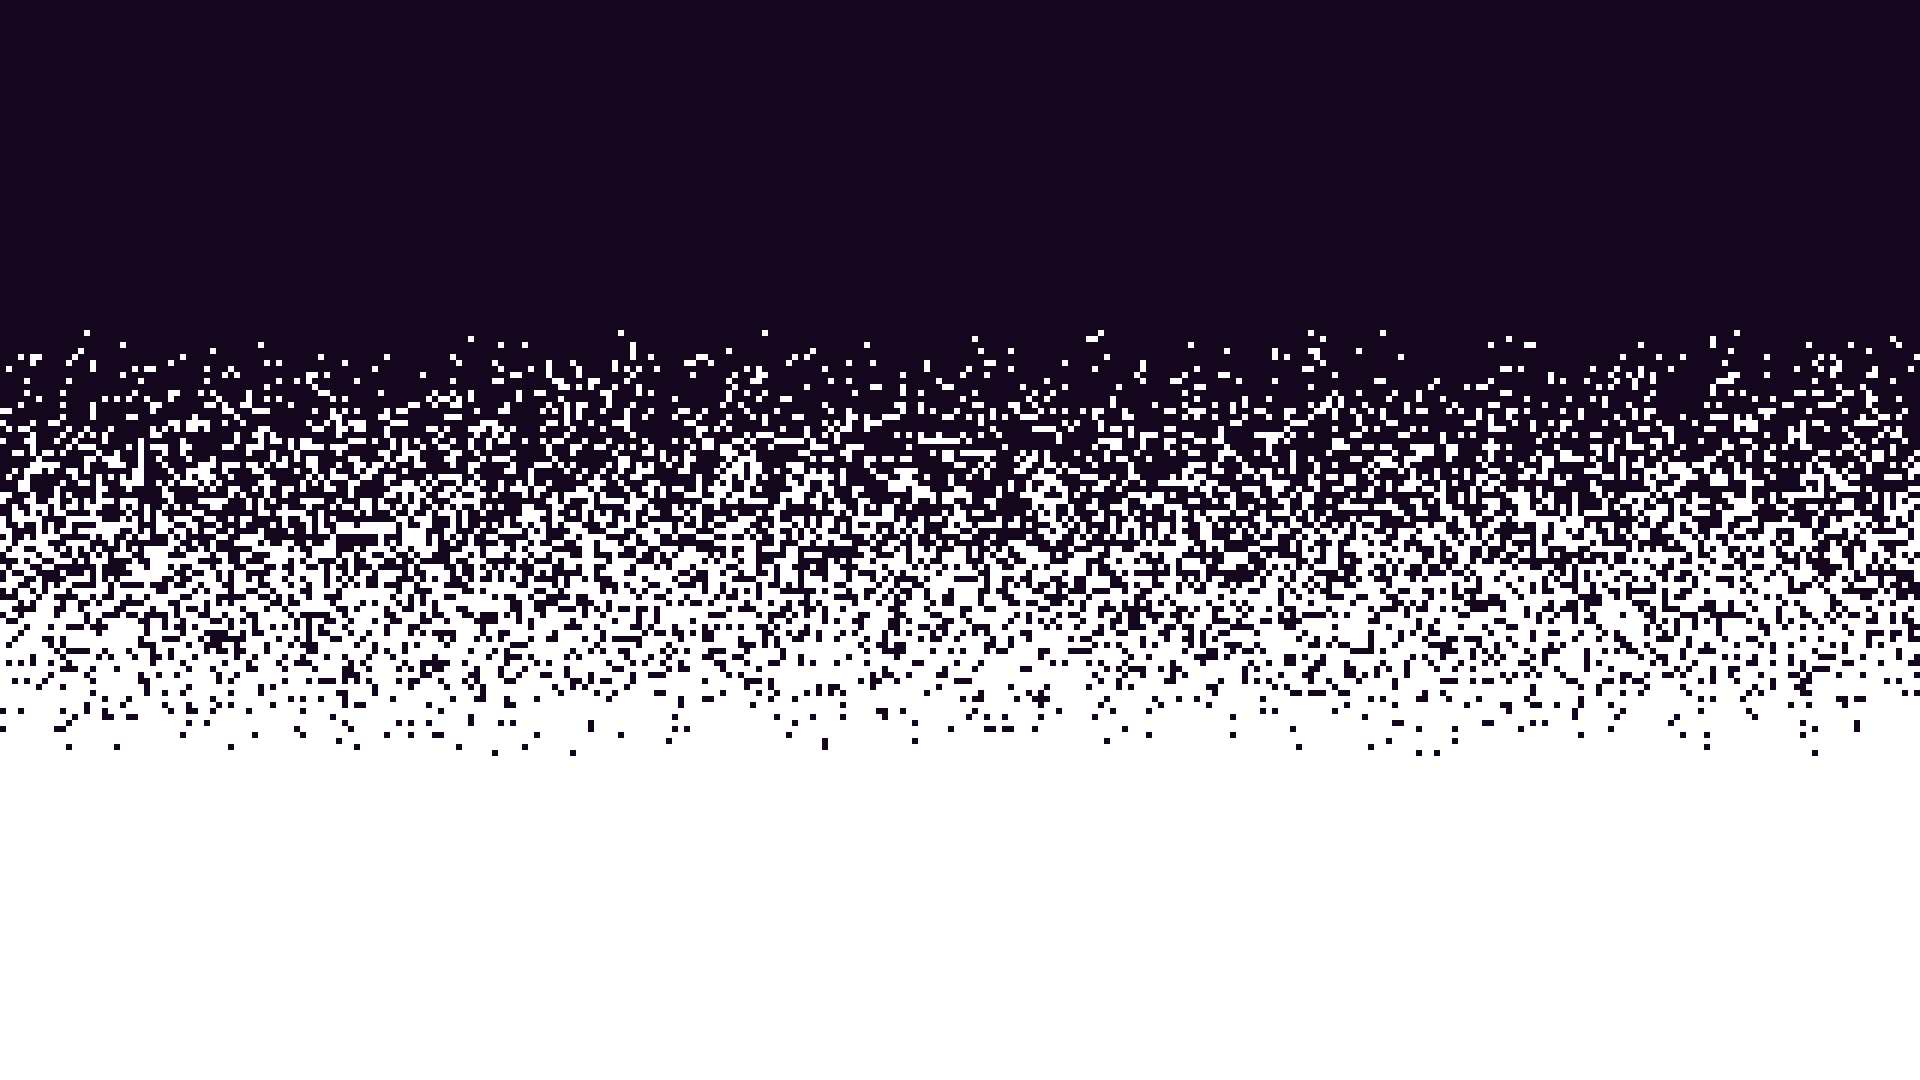
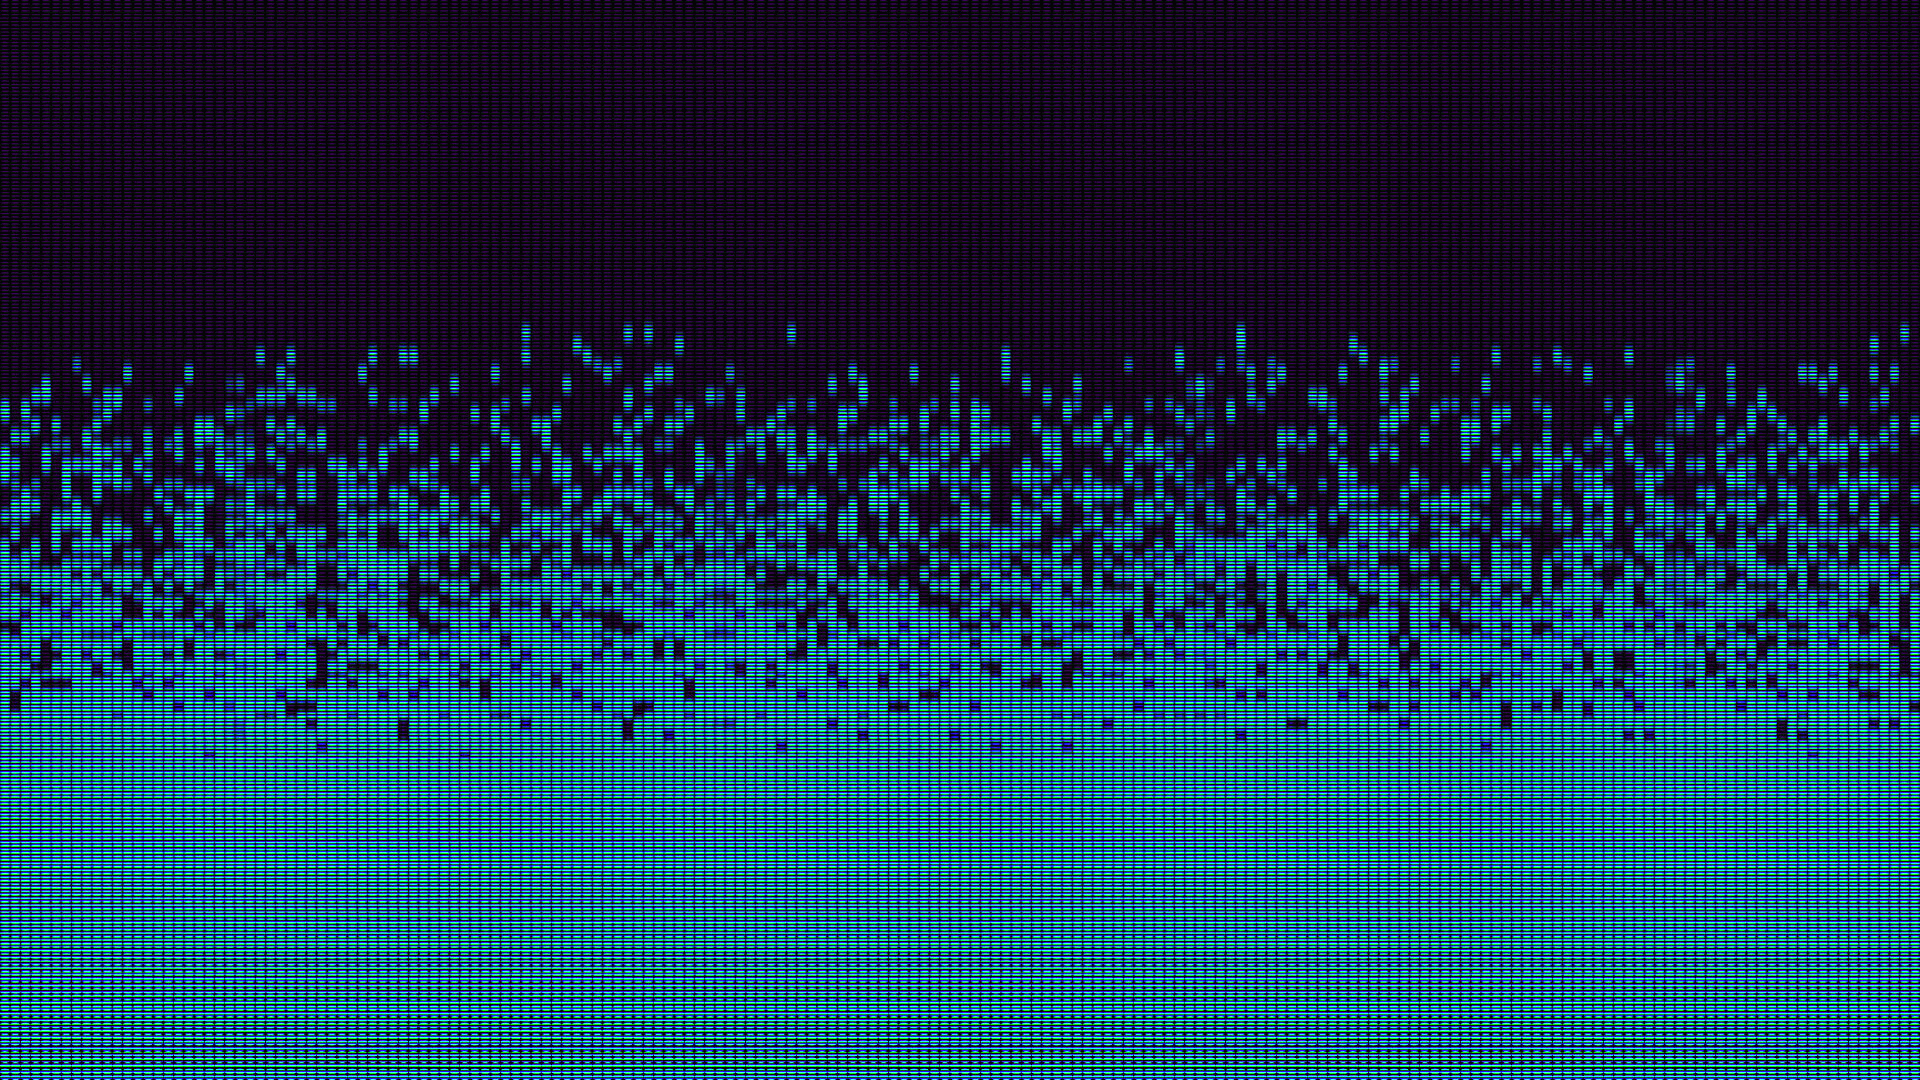
Two more components
About me page placeholder and email form(will test when online) and contacts added.

diff --git a/src/index.css b/src/index.css
@@ -13,7 +13,7 @@ body {
   max-width: 100%;
   height: 100vh;
   font-family: "VT323", "Ubuntu", monospace, sans-serif;
-  background: url("./img/bckgrndImg.jpg") no-repeat center center scroll;
+  background: url("./img/bckgrndImg.png") no-repeat center center scroll;
   -webkit-background-size: cover;
   -moz-background-size: cover;
   -o-background-size: cover;
@@ -230,6 +230,98 @@ a:hover {
   display: block;
   height: 100vh;
   width: 100%;
+  border-bottom: 1px solid black;
+}
+
+.contact-container {
+  display: flex;
+  justify-content: center;
+}
+
+#contact-form {
+  width: 100%;
+  display: flex;
+
+  flex-direction: column;
+  align-content: center;
+}
+
+.input-field-row {
+  display: flex;
+  flex-direction: row;
+  width: 100%;
+}
+
+.input-field-name {
+  width: 50%;
+}
+.input-field-mail {
+  width: 50%;
+}
+
+.input-field-name label {
+  width: 20%;
+  margin-right: 1em;
+}
+
+.input-field-name input {
+  width: 64%;
+  border-radius: 0.5em;
+}
+
+.input-field-mail label {
+  width: 20%;
+  margin-left: 1em;
+  margin-right: 1em;
+}
+
+.input-field-mail input {
+  width: 64%;
+  border-radius: 0.5em;
+}
+
+.email-form-container {
+  width: 25%;
+  padding: 2em;
+  border: 1px solid black;
+  border-radius: 1.5em;
+  margin-right: 4em;
+  margin-top: 18%;
+}
+
+form textarea {
+  width: 100%;
+  max-height: 30%;
+  border-radius: 0.5em;
+}
+
+.form-submit-button {
+  border-radius: 0.5em;
+  font-size: 1.5em;
+  letter-spacing: 4px;
+  margin: 1em auto 0em;
+  width: fit-content;
+}
+
+.other-contacts {
+  padding: 2em;
+  margin-top: 18%;
+  border: 1px solid black;
+  border-radius: 1.5em;
+  text-align: center;
+
+  margin-top: 18%;
+}
+
+.other-contacts p {
+  font-size: 1.5em;
+  margin: 1em 0 1em 0;
+}
+
+.or-element {
+  font-size: 10em;
+  padding-right: 0.3em;
+  margin-top: 18%;
 }
 
 /* Project cards */
@@ -240,12 +332,12 @@ a:hover {
   width: 100%;
   color: red;
   background-color: #1b92f6;
-  background: url("./img/bckgrndImg3.png") no-repeat center center scroll;
+  background: url("./img/bckgrndImg2.png") no-repeat center center scroll;
   -webkit-background-size: cover;
   -moz-background-size: cover;
   -o-background-size: cover;
   background-size: cover;
-  margin-bottom: 250px;
+
   border-bottom: 1px solid black;
 }
 
@@ -266,8 +358,74 @@ a:hover {
 
 .resume {
   display: block;
-  height: 100px;
+  height: 100vh;
   width: 100%;
+
+  background-color: #1b92f6;
+  background: url("./img/bckgrndImg3.png") no-repeat center center scroll;
+  -webkit-background-size: cover;
+  -moz-background-size: cover;
+  -o-background-size: cover;
+  background-size: cover;
+  border-bottom: 1px solid black;
+}
+
+.resume-content-container {
+  display: flex;
+  justify-content: space-around;
+  width: 100%;
+}
+
+.about-me {
+  margin-top: 9vh;
+  padding: 1.5em;
+  margin-left: 10vh;
+  width: 45%;
+  background-color: rgba(220, 92, 27, 0.7);
+  border-radius: 1.5em;
+  box-shadow: 3px 3px rgb(88, 88, 88);
+}
+
+.about-me p {
+  font-family: Ubuntu;
+  font-size: 1.5em;
+}
+
+.about-me h3 {
+  font-size: 2.5em;
+}
+
+.resume-download {
+  display: flex;
+  flex-direction: column;
+  align-content: center;
+  margin-top: 15vh;
+  padding: 1em;
+  width: 45%;
+}
+
+.resume-download-button {
+  text-align: center;
+  position: relative;
+  bottom: 103px;
+  padding: 1.5em;
+  margin: auto;
+  margin-top: 5em;
+  margin-bottom: -3em;
+  width: 18vw;
+  height: 20vh;
+  background-color: rgba(255, 255, 255, 0.5);
+  font-size: 1.6em;
+  border-radius: 1.5em;
+  box-shadow: 3px 3px rgb(88, 88, 88);
+}
+
+.my-photo {
+  height: 400px;
+  border-radius: 1.5em;
+  margin: 0 auto;
+
+  margin-bottom: 5em;
 }
 
 /* layout */

diff --git a/src/components/Resume.js b/src/components/Resume.js
@@ -3,7 +3,44 @@ import React from "react";
 export default function Resume() {
   return (
     <div className="resume" id="resume">
-      hello resume
+      <div className="resume-content-container">
+        <div className="about-me">
+          <h3>About me</h3>
+          <p>
+            Lorem ipsum dolor sit amet, consectetur adipiscing elit. Suspendisse
+            auctor, nulla vel consequat tempus, odio diam interdum erat, ac
+            interdum quam mauris sed tortor. Etiam convallis dolor ipsum, vel
+            vulputate dui aliquet quis. Quisque ultricies mauris enim.
+            Pellentesque pulvinar bibendum orci et vehicula. Duis tincidunt
+            laoreet molestie. Proin consectetur ut odio non sagittis. Aliquam
+            vulputate molestie lacus, a accumsan ipsum lobortis ac. Suspendisse
+            potenti. Morbi tempor nec ex id porttitor. Suspendisse sit amet
+            magna facilisis, vehicula odio in, pharetra purus. Sed quis nulla
+            aliquam, tristique nisi a, pretium tellus. Pellentesque posuere
+            ullamcorper accumsan. Praesent nec elit eros. Vestibulum tristique
+            vel metus quis congue. Pellentesque sed malesuada diam. Etiam leo
+            orci, sodales eu neque eget, aliquam cursus orci. Proin facilisis
+            consectetur quam. Maecenas fermentum turpis sem, sed dignissim mi
+            luctus quis. Nullam et dapibus odio, nec rhoncus urna. Phasellus
+            sodales enim a mauris scelerisque, et dapibus tellus euismod. Nullam
+            at tellus ut ipsum porttitor dapibus ac eget magna. Nunc ullamcorper
+            sodales ex, at suscipit est blandit quis. Quisque efficitur varius
+            accumsan.
+          </p>
+        </div>
+
+        <div className="resume-download">
+          <img
+            className="my-photo"
+            src={require("../img/portrait.png")}
+            alt="Miroslav Valkovic"
+          ></img>
+          <div className="resume-download-button">
+            <h3>Download resume here:</h3>
+            <button className="form-submit-button">Click</button>
+          </div>
+        </div>
+      </div>
     </div>
   );
 }

diff --git a/src/components/EmailForm.js b/src/components/EmailForm.js
@@ -1,0 +1,50 @@
+import React from "react";
+import emailjs from "emailjs-com";
+
+//Email npm init
+
+import { EmailJSResponseStatus, init } from "emailjs-com";
+init("user_MXmNlNl0tQLHzSpxOf1DD");
+
+export default function EmailForm() {
+  const sendEmailHandler = (event) => {
+    event.preventDefault();
+
+    emailjs
+      .sendForm(
+        "YOUR_SERVICE_ID",
+        "YOUR_TEMPLATE_ID",
+        event.target,
+        "YOUR_USER_ID"
+      )
+      .then(
+        (result) => {
+          console.log("result.text", result.text);
+        },
+        (error) => {
+          console.log("error.text", error.text);
+        }
+      );
+  };
+
+  return (
+    <div className="email-form-container">
+      <form id="contact-form" onSubmit={sendEmailHandler}>
+        <input type="hidden" name="contact_number" />
+        <div className="input-field-row">
+          <div className="input-field-name">
+            <label>Name:</label>
+            <input type="text" name="user_name" />
+          </div>
+          <div className="input-field-mail">
+            <label>Email:</label>
+            <input type="email" name="user_email" />
+          </div>
+        </div>
+        <label>Message:</label>
+        <textarea name="message" />
+        <input type="submit" value="Send" className="form-submit-button" />
+      </form>
+    </div>
+  );
+}

diff --git a/src/components/Contact.js b/src/components/Contact.js
@@ -1,9 +1,24 @@
 import React from "react";
+import EmailForm from "./EmailForm";
 
 export default function Contact() {
   return (
     <div className="contact" id="contact">
-      contact component
+      <div className="contact-container">
+        <EmailForm />
+        <p className="or-element">or</p>
+        <div className="other-contacts">
+          <p>Miroslav Valkovič</p>
+          <p>
+            valkovic.m@protonmail.com
+            <a href="mailto:valkovic.m@protonmail.com"> | Send an email</a>
+          </p>
+          <p>
+            +421915131456
+            <a href="tel:+421915131456"> | Give me a ring</a>
+          </p>
+        </div>
+      </div>
     </div>
   );
 }

diff --git a/src/blocks/HeaderBlock.js b/src/blocks/HeaderBlock.js
@@ -25,13 +25,13 @@ export default function HeaderBlock() {
           <li>|</li>
 
           <li className={scroll ? "nav-bar-dest-side" : "nav-bar-dest-top"}>
-            <a href="#contact">CONTACT</a>
+            <a href="#resume">RESUME</a>
           </li>
 
           <li>|</li>
 
           <li className={scroll ? "nav-bar-dest-side" : "nav-bar-dest-top"}>
-            <a href="#resume">RESUME</a>
+            <a href="#contact">CONTACT</a>
           </li>
         </ul>
       </nav>

diff --git a/public/index.html b/public/index.html
@@ -16,6 +16,17 @@
 
     <link rel="manifest" href="%PUBLIC_URL%/manifest.json" />
 
+    <script
+      type="text/javascript"
+      src="https://cdn.jsdelivr.net/npm/emailjs-com@2/dist/email.min.js"
+    ></script>
+
+    <script type="text/javascript">
+      (function () {
+        emailjs.init("user_MXmNlNl0tQLHzSpxOf1DD");
+      })();
+    </script>
+
     <title>Miroslav Valkovič site</title>
   </head>
   <body>

diff --git a/src/App.js b/src/App.js
@@ -16,7 +16,7 @@ export default function App() {
       <LayoutBlock>
         <MainPage />
         <ProjectCards />
-        <button>OKOKTINA</button>
+
         <Resume />
         <Contact />
       </LayoutBlock>
